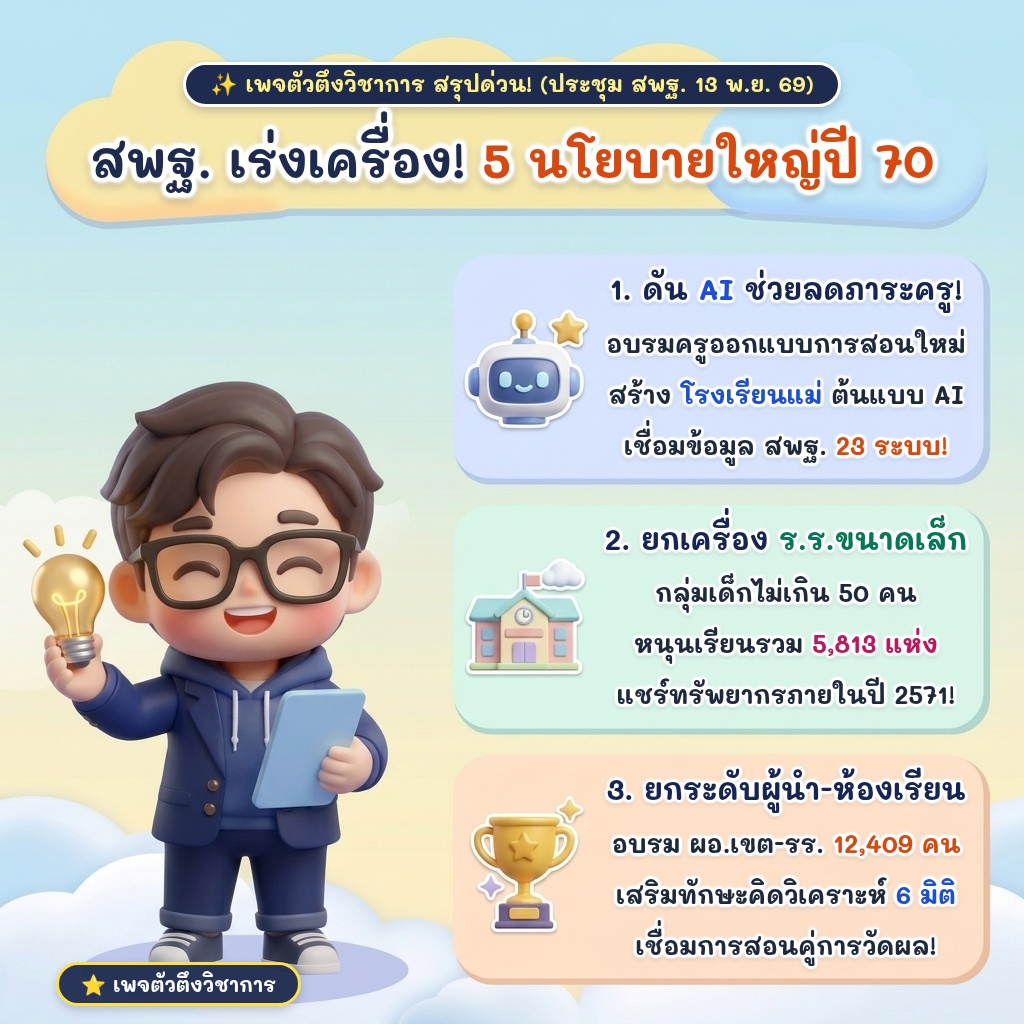
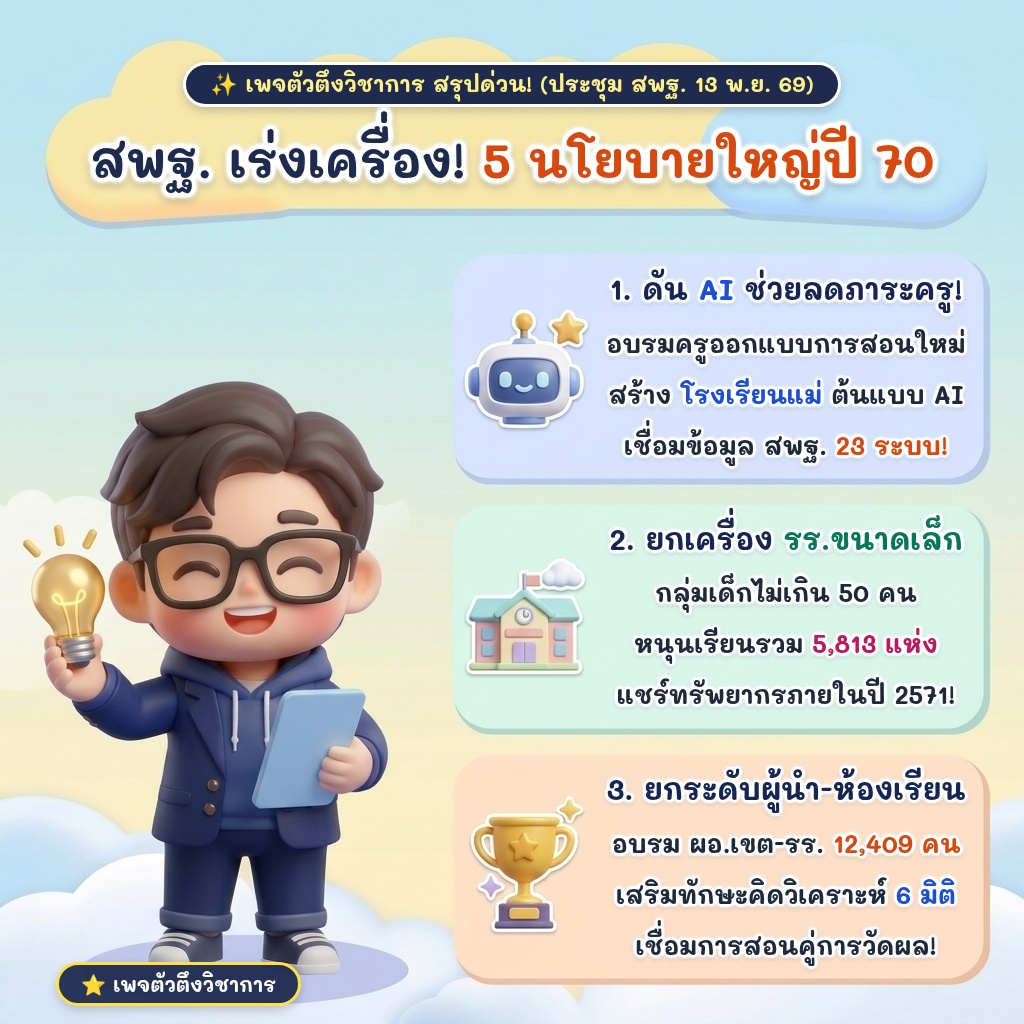
Fix Thai abbreviation รร. (school) in POST-006 infographic and caption

Changed region(s): [[0.5938, 0.5, 0.9375, 0.5625]]

diff --git a/index.html b/index.html
@@ -806,14 +806,14 @@
         date: "13 พ.ย. 2569",
         category: "สรุปข่าวใหญ่ ศธ.",
         docRef: "ประชุมขับเคลื่อนนโยบาย ศธ.-สพฐ. ครั้งที่ 2/2569 (13 พ.ย. 69)",
-        title: "สพฐ. เร่งเครื่อง 5 นโยบายใหญ่ปีงบฯ 70! ดัน AI ลดภาระครู • เชื่อม 23 ระบบข้อมูล • หนุนเรียนรวม ร.ร.เล็ก 5,813 แห่ง",
-        image: "images/post-06-obec-5policies-70.jpg?v=1",
+        title: "สพฐ. เร่งเครื่อง 5 นโยบายใหญ่ปีงบฯ 70! ดัน AI ลดภาระครู • เชื่อม 23 ระบบข้อมูล • หนุนเรียนรวม รร.เล็ก 5,813 แห่ง",
+        image: "images/post-06-obec-5policies-70.jpg?v=2",
         imageDownloadName: "ตัวตึงวิชาการ_สพฐ_เร่ง5นโยบายใหญ่_AIลดภาระครู_รรเล็ก_13พย69.jpg",
-        mainCaption: `🚨 จับตาทิศทางใหม่ครูไทย! เลขาฯ กพฐ. ประชุมเร่งเครื่อง "5 นโยบายใหญ่ สพฐ." ขับเคลื่อนปีงบฯ 70 ดัน AI ลดภาระครู–สังคายนา 23 ระบบข้อมูล–เรียนรวม ร.ร.เล็ก! 🤖🏫✨
+        mainCaption: `🚨 จับตาทิศทางใหม่ครูไทย! เลขาฯ กพฐ. ประชุมเร่งเครื่อง "5 นโยบายใหญ่ สพฐ." ขับเคลื่อนปีงบฯ 70 ดัน AI ลดภาระครู–สังคายนา 23 ระบบข้อมูล–เรียนรวม รร.เล็ก! 🤖🏫✨
 
 📌 สรุป 3 ไฮไลต์สำคัญจากการประชุมคณะทำงานขับเคลื่อนนโยบาย ศธ. (13 พ.ย. 2569):
 1⃣ ดัน AI ช่วยครู & เชื่อมข้อมูล 23 ระบบ: พัฒนาสมรรถนะครูให้นำ AI มาออกแบบการสอนและเป็นเครื่องมือ "ลดภาระงาน" พร้อมสร้าง "โรงเรียนแม่" ต้นแบบ AI ขยายผลทั่วประเทศ ที่สำคัญคือเตรียมเชื่อมโยงระบบสารสนเทศ สพฐ. ทั้ง 23 ระบบงานเข้าด้วยกัน!
-2⃣ ยกเครื่อง ร.ร.ขนาดเล็ก 5,813 แห่ง: สนับสนุนโรงเรียนที่มีนักเรียนไม่เกิน 50 คน จำนวน 5,813 แห่ง ให้จัดการเรียนรวมและใช้ทรัพยากร-ครู-สื่อเทคโนโลยีร่วมกัน ภายในปีการศึกษา 2571 เพื่อลดความเหลื่อมล้ำ
+2⃣ ยกเครื่อง รร.ขนาดเล็ก 5,813 แห่ง: สนับสนุนโรงเรียนที่มีนักเรียนไม่เกิน 50 คน จำนวน 5,813 แห่ง ให้จัดการเรียนรวมและใช้ทรัพยากร-ครู-สื่อเทคโนโลยีร่วมกัน ภายในปีการศึกษา 2571 เพื่อลดความเหลื่อมล้ำ
 3⃣ ยกระดับผู้นำ 12,409 คน & ปฏิรูปห้องเรียน: เตรียมพัฒนา ผอ.เขต และ ผอ.โรงเรียน กว่า 12,409 คน ควบคู่กับการปั้นทักษะการคิดขั้นสูง 6 มิติ (HOTS Integration) เชื่อมโยงการสอนกับการวัดผลให้เป็นเนื้อเดียวกัน!
 
 💡 ข้อที่ชาวครูแอบเชียร์สุดใจน่าจะเป็น "รวม 23 ระบบงานของ สพฐ. ให้เชื่อมหากัน" จะได้ไม่ต้องกรอกข้อมูลเดิมซ้ำ 23 รอบสักที 555+ 🤣 ชาวครูรอลุ้นข้อไหนมากที่สุด คอมเมนต์คุยกันหน่อยครับ! ลิงก์ข่าวอ้างอิงแปะไว้ใน "คอมเมนต์แรก" เลย 👇✨
